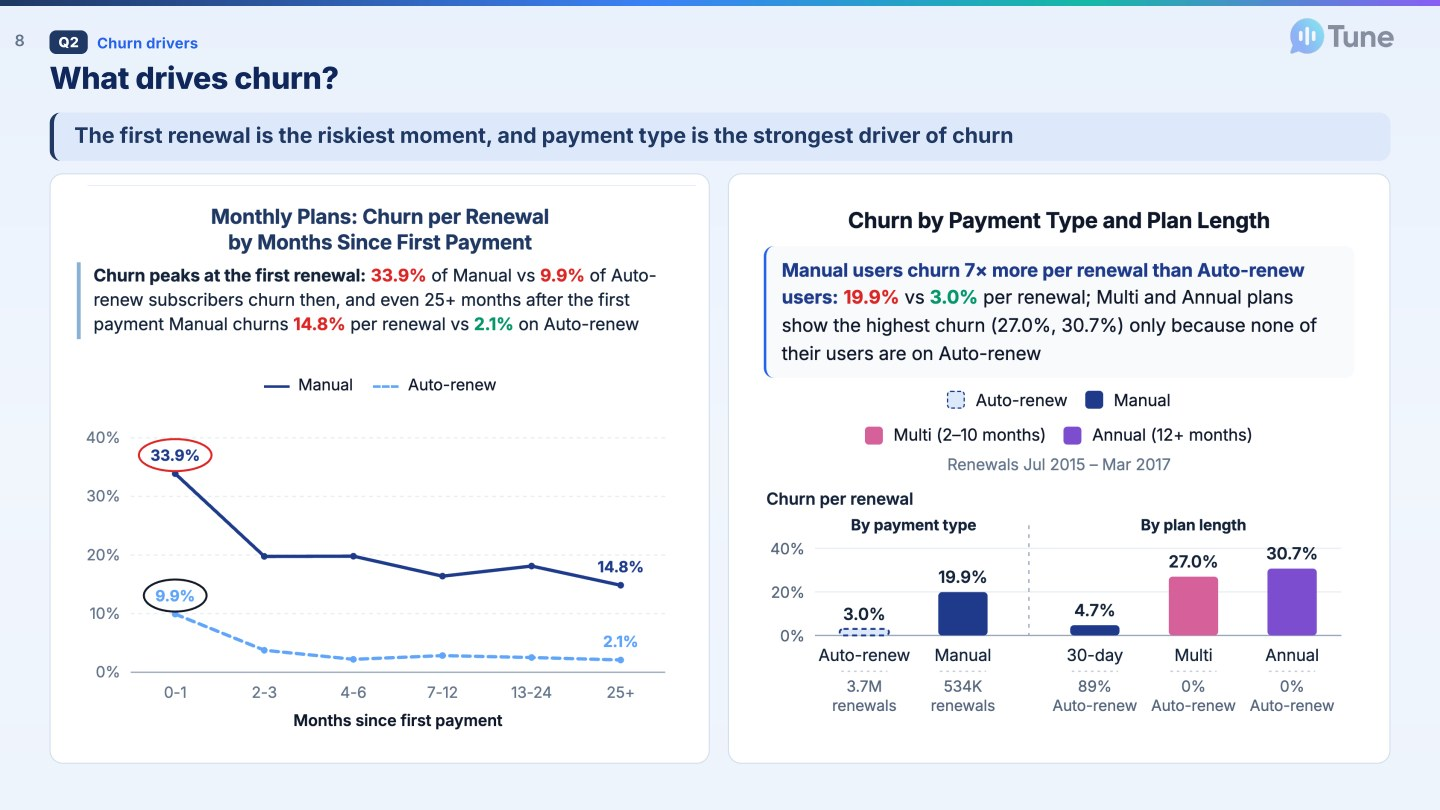
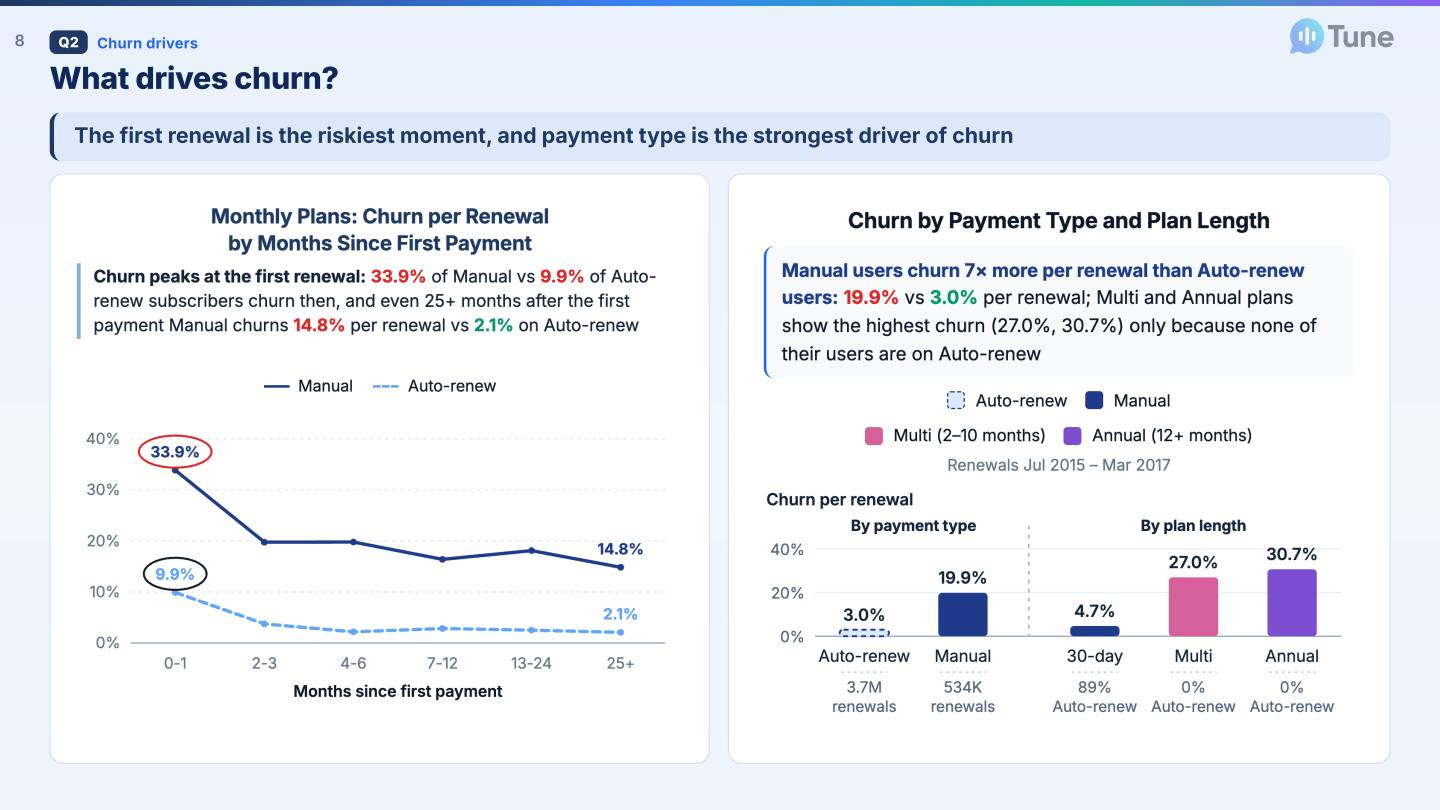
Deck slides 8 and 9: line charts less stretched, so their slopes look as before

diff --git a/index.html b/index.html
@@ -3698,7 +3698,7 @@ const ISSUES = { raw_users: "U1-U11: age 0 or out of range, gender missing, regi
   raw_churn_labels: "L4-L7: labels don't match a naive 'due in March' population" };
 
 // ---------------- tabs ----------------
-const DECKV = "1117g";  // change on every deck update so browsers load the new slide images, not a cached copy
+const DECKV = "1117h";  // change on every deck update so browsers load the new slide images, not a cached copy
 const GROUPS = {
   intro: [["overview", "Overview"]],
   p1: [["dq", "1a · Data quality"], ["lineage", "1b.1 · Clean layer & data model"], ["explorer", "1b.2 · Explorer & SQL"], ["churn", "1c · Churn check"]],
